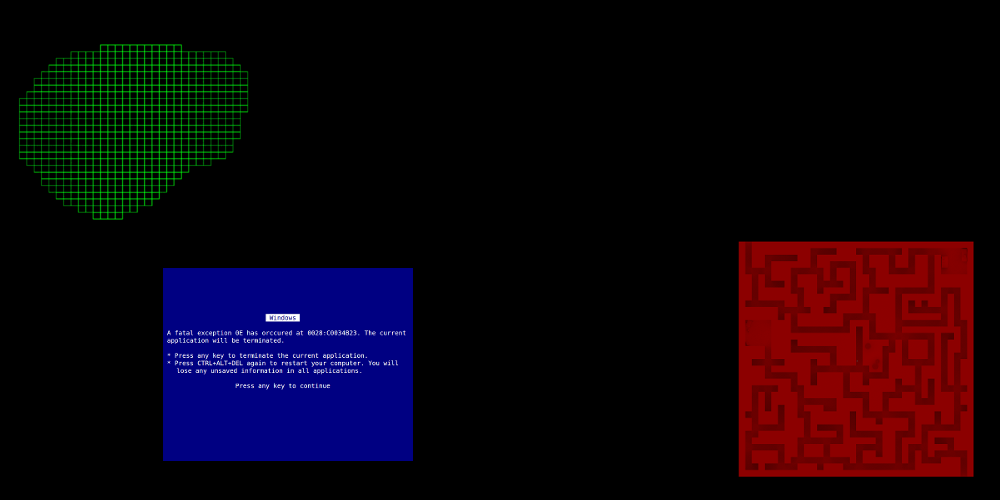
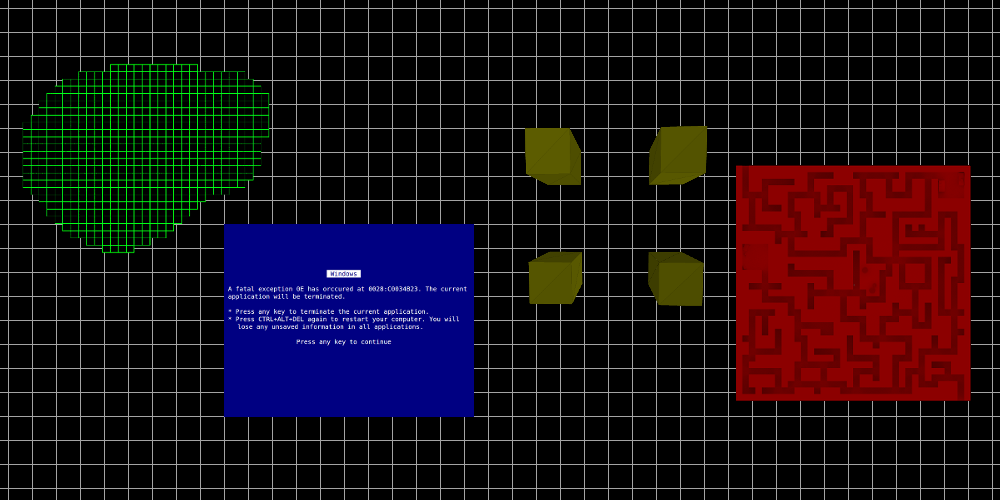
finish yellow section

diff --git a/yellow/index.html b/yellow/index.html
@@ -11,10 +11,53 @@
 		<link rel="stylesheet" type="text/css" href="stylesheet.css">
 	</head>
 
-    <body>
-        <div id="threeapp" class="content">
-        </div>
+    <body >
+		<div id="container">
+	        <div id="threeapp" class="content" onmousedown="mouseDown()" onmouseup="mouseUp()" onmousemove="mouseMove(event)" onmouseout="mouseUp()">
+	        </div>
+			<div id="controls">
+				<div class="slider" id="slider1">
+					<input class="bar" type="range" id="rangeinput" value="50" oninput="rangevalue1.value=value"/>
+					<output id="rangevalue1">50</output>
+				</div>
+				<div class="slider" id="slider2">
+					<input class="bar" type="range" id="rangeinput" value="63" oninput="rangevalue2.value=value"/>
+					<output id="rangevalue2">63</output>
+				</div>
+				<div class="slider" id="slider3">
+					<input class="bar" type="range" id="rangeinput" value="31" oninput="rangevalue3.value=value"/>
+					<output id="rangevalue3">31</output>
+				</div>
+			</div>
+		</div>
         <script>
+			var dx = 0;
+			var dy = 0;
+			var lastx = 0;
+			var lasty = 0;
+			var mouseButtonDown = false;
+			function mouseDown(){
+				mouseButtonDown = true;
+				var x = event.clientX;
+    			var y = event.clientY;
+				lastx = x;
+				lasty = y;
+			}
+			function mouseUp(){
+				mouseButtonDown = false;
+				dx = 0;
+				dy = 0;
+			}
+			function mouseMove(event){
+				if(mouseButtonDown){
+					var x = event.clientX;
+					var y = event.clientY;
+					dx = lastx - x;
+					dy = lasty - y;
+					lastx = x;
+					lasty = y;
+				}
+			}
 			var scene = new THREE.Scene();
 			var div = document.getElementById("threeapp");
 			var camera = new THREE.PerspectiveCamera(75, div.getBoundingClientRect().width / div.getBoundingClientRect().height, 0.1, 1000);
@@ -24,9 +67,9 @@
 			div.appendChild(renderer.domElement);
 
             var cubes = [];
-            var xCubes = 5;
-            var yCubes = 5;
-            var zCubes = 5;
+            var xCubes = 4;
+            var yCubes = 4;
+            var zCubes = 4;
             var padding = 2;
             var cubeIndex = 0;
             for(x = -xCubes; x < xCubes; x++){
@@ -37,35 +80,46 @@
                         var material = new THREE.MeshPhongMaterial( { color: 0xffff00 } );
             			var cube = new THREE.Mesh( geometry, material );
                         cubes[cubeIndex] = cube;
-                        cube.position.x = x + x * padding;
-                        cube.position.y = y + y * padding;
-                        cube.position.z = (z + z * padding);
+                        cube.position.x = x + x * padding + 1.5;
+                        cube.position.y = y + y * padding + 1.5;
+                        cube.position.z = z + z * padding + 1.5;
             			scene.add( cubes[cubeIndex] );
                         cubeIndex++;
                     }
                 }
             }
 
-            var controls = new THREE.OrbitControls( camera, renderer.domElement );
-			//controls.addEventListener( 'change', render ); // add this only if there is no animation loop (requestAnimationFrame)
-			controls.enableDamping = true;
-			controls.dampingFactor = 0.25;
-			controls.enableZoom = false;
-            controls.enableKeys = false;
+			var slider1 = document.getElementById('rangevalue1');
+			var slider2 = document.getElementById('rangevalue2');
+			var slider3 = document.getElementById('rangevalue3');
 
             var light = new THREE.PointLight( 0xffffff, 1, 100 );
-            light.position.set( 1, 1, 1 );
+            light.position.set( 10, 10, 10 );
             scene.add( light );
+			light = new THREE.PointLight(0xffffff, 1, 100);
+			light.position.set(-10, -10, -10);
+			scene.add(light);
 
-
-			camera.position.z = 5;
-            camera.position.y = 5;
-            camera.position.x = 5;
+			camera.position.z = 1;
+            camera.position.y = 0;
+            camera.position.x = 0;
+			var time = Date.now();
+			var delta = 0;
+			var maxDelta = 1;
+			var brightness = 0;
 			function render() {
+				delta = Date.now() - time;
+				if(delta > maxDelta)
+					maxDelta = delta;
 				requestAnimationFrame(render);
 				renderer.render(scene, camera);
-                //camera.position.z += 0.05;
-                controls.update(); // required if controls.enableDamping = true, or if controls.autoRotate = true
+				brightness = rangevalue1.innerHTML / 100;
+				for(i = 0; i < cubes.length; i++){
+					cubes[i].material.color.setRGB(brightness, brightness, 0);
+				}
+				camera.rotation.y = slider2.innerHTML / 10;
+				camera.rotation.x = slider3.innerHTML / 10;
+				time = Date.now();
 			}
 			render();
 		</script>

diff --git a/yellow/stylesheet.css b/yellow/stylesheet.css
@@ -1,10 +1,99 @@
 body {
     font-family: monospace;
     background-color: #000;
+    background-image: url("waveforms.gif");
+    background-repeat: repeat;
 }
-
+#container {
+    padding-top: 100px;
+    margin: 0 auto;
+    width: 1204px;
+}
 #threeapp {
+    float: left;
     margin: 0 auto;
     width: 600px;
     height: 600px;
+    border: 1px solid yellow;
+    background-color: #000;
+}
+#controls {
+    float: left;
+    border: 1px solid yellow;
+    background-color: #000;
+    width: 600px;
+    height: 600px;
+    position: relative;
+}
+.slider {
+	width: 400px;
+	height: 17px;
+	position: relative;
+	margin: 100px auto;
+	background: #880;
+
+    /*
+	-webkit-border-radius: 40px;
+	-moz-border-radius: 40px;
+	border-radius: 40px;
+    */
+
+	-webkit-box-shadow: inset 0px 0px 1px 1px rgba(0, 0, 0, 0.9), 0px 1px 1px 0px rgba(255, 255, 255, 0.13);
+	-moz-box-shadow: inset 0px 0px 1px 1px rgba(0, 0, 0, 0.9), 0px 1px 1px 0px rgba(255, 255, 255, 0.13);
+	box-shadow: inset 0px 0px 1px 1px rgba(0, 0, 0, 0.9), 0px 1px 1px 0px rgba(255, 255, 255, 0.13);
+}
+
+.slider .bar {
+	width: 396px;
+	height: 0px;
+	position: relative;
+	top: -4px;
+	left: 0px;
+
+    /*
+    background: #333;
+	background: #1d2e38;
+	background: -moz-linear-gradient(left, #1d2e38 0%, #2b4254 50%, #2b4254 100%);
+	background: -webkit-gradient(linear, left top, right top, color-stop(0%,#1d2e38), color-stop(50%,#2b4254), color-stop(100%,#2b4254));
+	background: -webkit-linear-gradient(left, #1d2e38 0%,#2b4254 50%,#2b4254 100%);
+	background: -o-linear-gradient(left, #1d2e38 0%,#2b4254 50%,#2b4254 100%);
+	background: -ms-linear-gradient(left, #1d2e38 0%,#2b4254 50%,#2b4254 100%);
+	background: linear-gradient(left, #1d2e38 0%,#2b4254 50%,#2b4254 100%);
+	filter: progid:DXImageTransform.Microsoft.gradient( startColorstr='#1d2e38', endColorstr='#2b4254',GradientType=1 );
+	-webkit-border-radius: 40px;
+	-moz-border-radius: 40px;
+	border-radius: 40px;
+    */
+}
+input[type="range"] {
+	-webkit-appearance: none;
+	background-color: black;
+	height: 2px;
+}
+
+input[type="range"]::-webkit-slider-thumb {
+	-webkit-appearance: none;
+	position: relative;
+	top: 0px;
+	z-index: 1;
+	width: 11px;
+	height: 18px;
+	cursor: pointer;
+    /*
+	-webkit-box-shadow: 0px 6px 5px 0px rgba(0,0,0,0.6);
+	-moz-box-shadow: 0px 6px 5px 0px rgba(0,0,0,0.6);
+	box-shadow: 0px 6px 5px 0px rgba(0,0,0,0.6);
+	-webkit-border-radius: 40px;
+	-moz-border-radius: 40px;
+	border-radius: 40px;
+    background-image: -webkit-gradient(linear, left top, left bottom, color-stop(0%,#ebf1f6), color-stop(50%,#abd3ee), color-stop(51%,#89c3eb), color-stop(100%,#d5ebfb));
+    */
+    background-color: #ffff00;
+}
+
+input[type="range"]:hover ~ #rangevalue,input[type="range"]:active ~ #rangevalue {
+	-ms-filter: "progid:DXImageTransform.Microsoft.Alpha(Opacity=100)";
+	filter: alpha(opacity=100);
+	opacity: 1;
+	top: -75px;
 }

diff --git a/index.html b/index.html
@@ -18,6 +18,7 @@
 			</div>
 			<div id="right-maps" class="content">
 				<a href="bsod/index.html"><img class="place" src="bsod_thumb.png"></img></a>
+				<a href="yellow/index.html"><img class="place" src="yellow_thumb.png"></img></a>
 			</div>
 		</div>
 		<script>

diff --git a/README.md b/README.md
@@ -1,4 +1,5 @@
 # Digital Art Project 1
 
 A web based art project for a digital art class.
+3D graphics are rendered using [THREE.js](https://threejs.org)
 Photospheres were created by rendering equirectangular images in blender and are displayed using [Jérémy Heleine](https://github.com/JeremyHeleine)'s photo sphere viewer.
